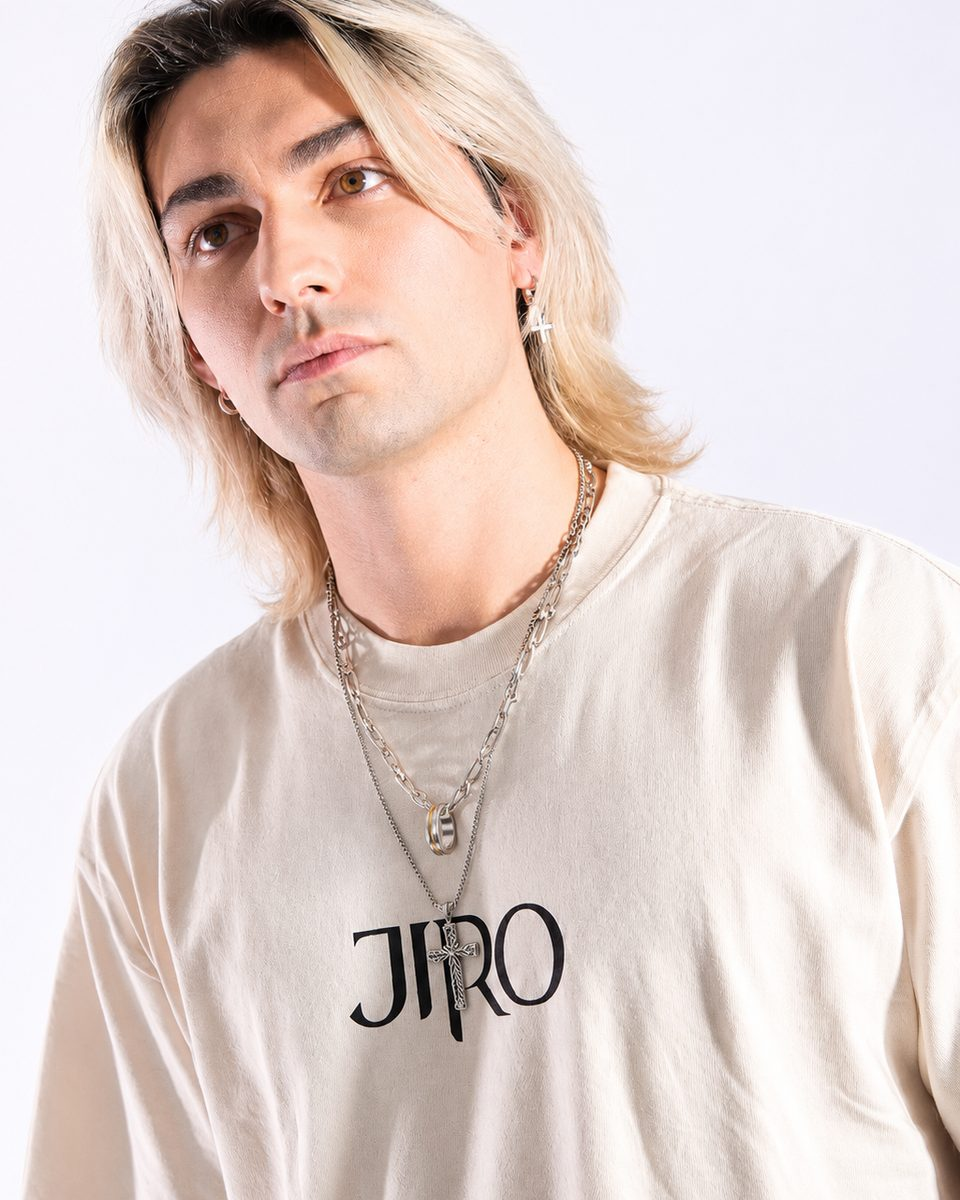
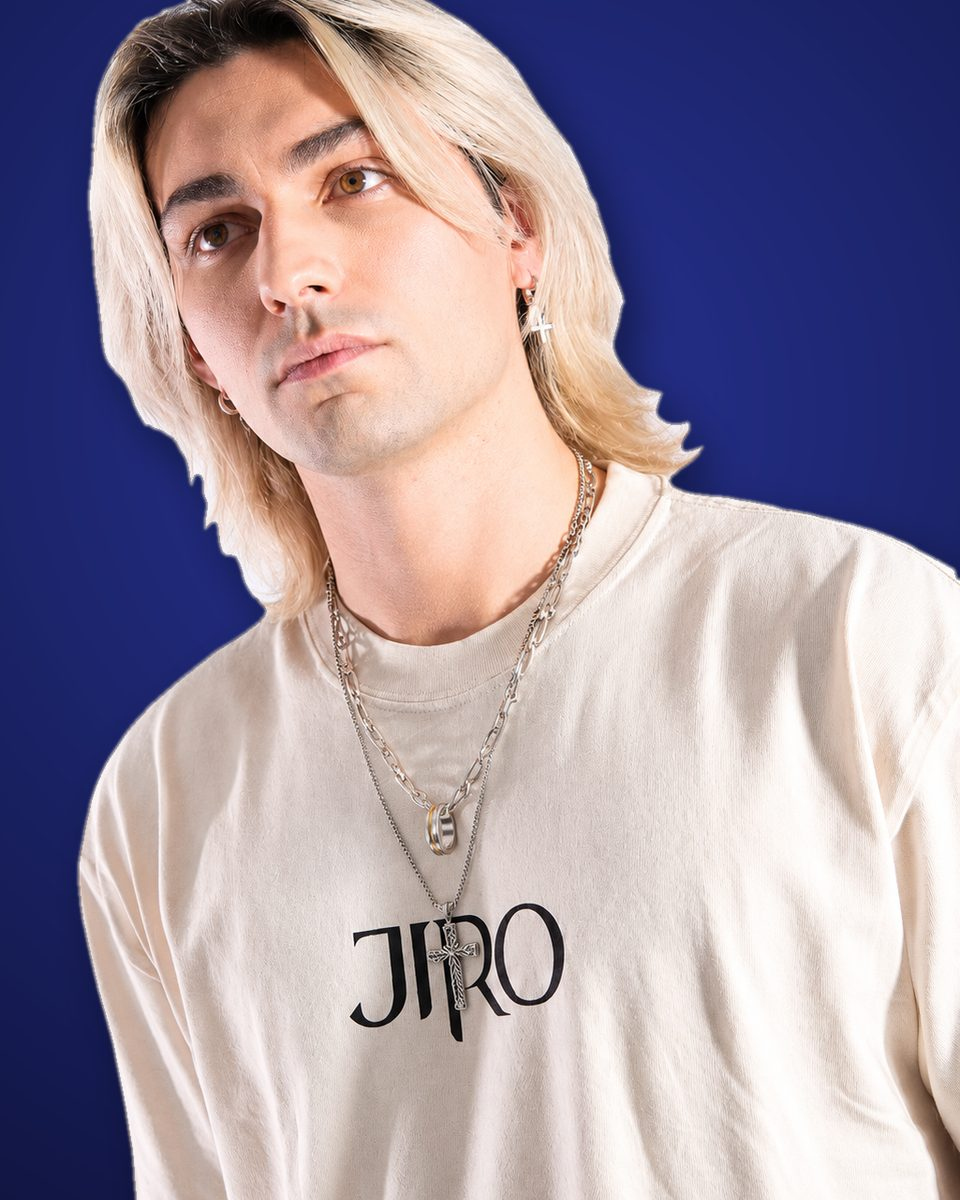
Merch : fonds assortis à chaque produit (soleil rouge, gris, bleu outremer)
Claude-Session: https://claude.ai/code/session_01LsyVhuruNkgfXuG7KgWu6e

diff --git a/index.html b/index.html
@@ -12,7 +12,7 @@
 <link rel="icon" href="img/mono.png">
 <link rel="preconnect" href="https://fonts.googleapis.com">
 <link rel="stylesheet" href="https://fonts.googleapis.com/css2?family=Archivo:wdth,wght@100..125,700..900&family=Barlow:wght@400;500;600;700&display=swap">
-<link rel="stylesheet" href="style.css?v=20261125a">
+<link rel="stylesheet" href="style.css?v=20261125b">
 </head>
 <body>
 
@@ -235,7 +235,7 @@
   </div>
 </footer>
 
-<script src="data.js?v=20261125a"></script>
-<script src="app.js?v=20261125a"></script>
+<script src="data.js?v=20261125b"></script>
+<script src="app.js?v=20261125b"></script>
 </body>
 </html>
